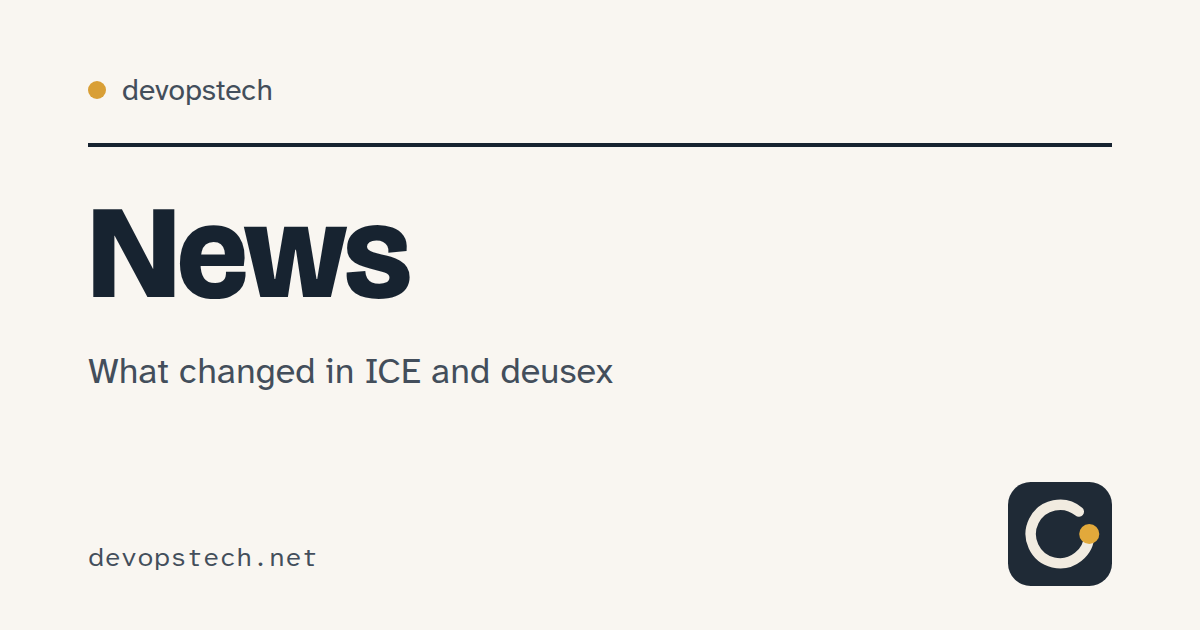
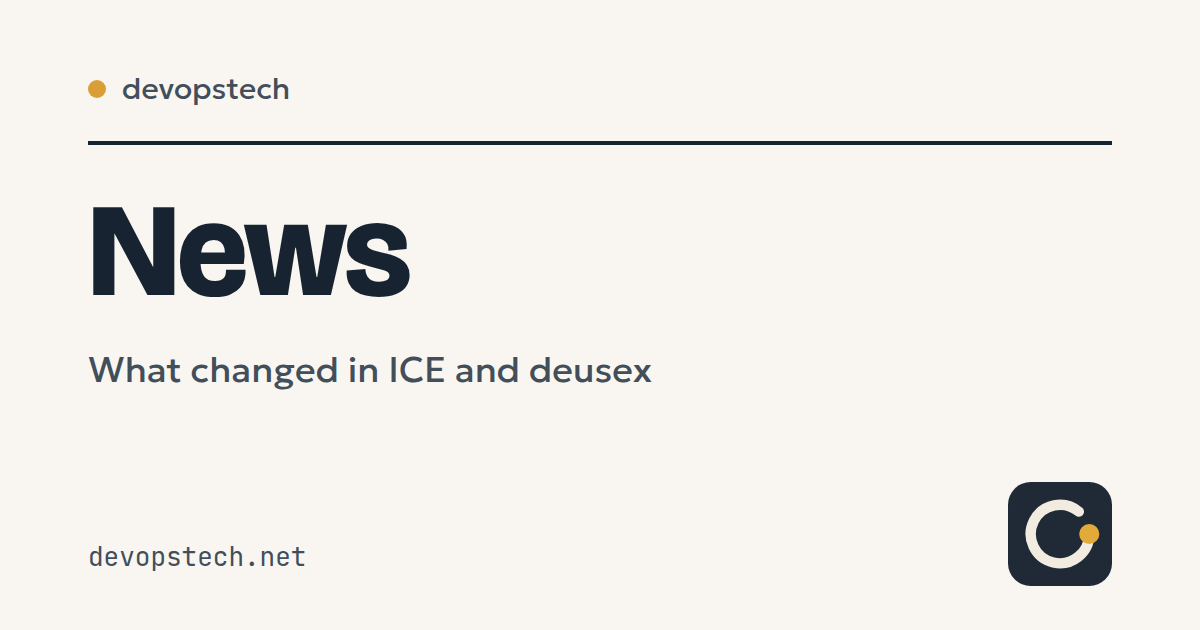
style(site): the shared devopstech/ICE style — Geologica, JetBrains Mono, 6/4 px radii, ICE mark on ICE cards
Agreed with the ICE logo work (ICE repo docs/DESIGN.md is the source): Geologica for
text and JetBrains Mono for code, both with Cyrillic like the bilingual console;
Bricolage Grotesque stays only for large English display headings; Atkinson leaves the
site. Controls get a 6px radius, cards and figures 4px (--dt-radius-control/-card).
Social cards use the same fonts, and ICE pages carry the ICE core-sample mark instead
of the devopstech ring.

Fixes found on the way:
- 768-959 px: the navbar was wider than the screen since the brand suffix and the News
  item (38 px on production, 71 px with the new fonts); the suffix hides in that range.
- VitePress menu labels (Appearance) were 12 px; the site's floor is 13 px.

diff --git a/docs/.vitepress/theme/custom.css b/docs/.vitepress/theme/custom.css
@@ -1,6 +1,9 @@
 /*
  * devopstech — "engineering notebook": warm paper, ink, a brass mark.
  * Rules: nothing smaller than 13px, no large red surfaces, left-aligned everything.
+ * Shared with the ICE console (ICE repo docs/DESIGN.md): Geologica for text, JetBrains Mono
+ * for code, the ICE ice ramp; Bricolage Grotesque only for large English display headings;
+ * brass belongs to devopstech and never to the product; radius 6px on controls, 4px on cards.
  */
 :root {
   --dt-paper: oklch(0.975 0.008 85);
@@ -17,9 +20,11 @@
   --dt-deusex: oklch(0.6 0.13 70);
   --dt-km: #326ce5;
 
-  --dt-font-display: 'Bricolage Grotesque', 'Atkinson Hyperlegible Next', ui-sans-serif, system-ui, sans-serif;
-  --vp-font-family-base: 'Atkinson Hyperlegible Next', ui-sans-serif, system-ui, -apple-system, 'Segoe UI', sans-serif;
-  --vp-font-family-mono: 'Atkinson Hyperlegible Mono', ui-monospace, 'SFMono-Regular', Menlo, monospace;
+  --dt-font-display: 'Bricolage Grotesque', 'Geologica', ui-sans-serif, system-ui, sans-serif;
+  --vp-font-family-base: 'Geologica', ui-sans-serif, system-ui, -apple-system, 'Segoe UI', sans-serif;
+  --vp-font-family-mono: 'JetBrains Mono', ui-monospace, 'SFMono-Regular', Menlo, monospace;
+  --dt-radius-control: 6px;
+  --dt-radius-card: 4px;
 
   --vp-c-bg: var(--dt-paper);
   --vp-c-bg-alt: var(--dt-paper-2);
@@ -148,6 +153,7 @@
   padding: 28px 28px 22px;
   background: var(--dt-paper-2);
   border: 1px solid var(--vp-c-divider);
+  border-radius: var(--dt-radius-card);
   max-width: 620px;
 }
 .vp-doc .dt-quote {
@@ -343,7 +349,7 @@
   width: 100%;
   height: auto;
   border: 1px solid var(--vp-c-border);
-  border-radius: 3px;
+  border-radius: var(--dt-radius-card);
 }
 .vp-doc .dt-shot figcaption {
   margin-top: 10px;
@@ -400,7 +406,7 @@
   font-weight: 600;
   line-height: 1.2;
   text-decoration: none !important;
-  border-radius: 3px;
+  border-radius: var(--dt-radius-control);
   background: var(--dt-ink);
   color: var(--dt-paper) !important;
   transition: background-color 0.15s ease;
@@ -423,4 +429,10 @@
   margin: 28px 0 8px;
   padding-top: 24px;
   border-top: 2px solid var(--vp-c-text-1);
+}
+
+/* VitePress sets these menu labels at 12px (`.VPMenu[data-v] .label`); the site's floor is 13px */
+.VPNav .VPNavBarExtra .VPMenu .label,
+.VPNavScreenAppearance .text {
+  font-size: 13px;
 }

diff --git a/docs/.vitepress/theme/components/PartnerCta.vue b/docs/.vitepress/theme/components/PartnerCta.vue
@@ -109,7 +109,7 @@ async function copy() {
   font-weight: 600;
   line-height: 1.2;
   text-decoration: none !important;
-  border-radius: 3px;
+  border-radius: var(--dt-radius-control);
   background: var(--dt-ink);
   color: var(--dt-paper) !important;
   transition: background-color 0.15s ease;
@@ -143,7 +143,7 @@ async function copy() {
   font-size: 14px;
   color: var(--vp-c-text-1);
   border: 1px solid var(--vp-c-border);
-  border-radius: 3px;
+  border-radius: var(--dt-radius-control);
   background: var(--vp-c-bg);
   cursor: pointer;
 }

diff --git a/docs/.vitepress/theme/components/HubHome.vue b/docs/.vitepress/theme/components/HubHome.vue
@@ -336,7 +336,7 @@ a:hover { text-decoration-thickness: 2px; }
   width: 100%;
   height: auto;
   border: 1px solid var(--vp-c-divider);
-  border-radius: 4px;
+  border-radius: var(--dt-radius-card);
 }
 .shot figcaption {
   margin-top: 12px;
@@ -360,6 +360,7 @@ a:hover { text-decoration-thickness: 2px; }
   padding: 28px 28px 24px;
   background: var(--dt-paper-2);
   border: 1px solid var(--vp-c-divider);
+  border-radius: var(--dt-radius-card);
 }
 
 

diff --git a/docs/.vitepress/theme/components/NavCta.vue b/docs/.vitepress/theme/components/NavCta.vue
@@ -20,7 +20,7 @@ defineProps<{ screen?: boolean }>();
   color: var(--vp-c-text-1);
   background: transparent;
   border: 1.5px solid var(--vp-c-text-1);
-  border-radius: 3px;
+  border-radius: var(--dt-radius-control);
   transition: color 0.15s ease, border-color 0.15s ease;
 }
 /* outlined, so the one solid button on a page is that page's own closing call to action */

diff --git a/docs/.vitepress/theme/components/NavBrandSuffix.vue b/docs/.vitepress/theme/components/NavBrandSuffix.vue
@@ -19,4 +19,10 @@
   border-left: 1px solid var(--vp-c-divider);
   white-space: nowrap;
 }
+/* 768–959 px shows the full nav in one row; without this the bar is wider than the screen */
+@media (min-width: 768px) and (max-width: 959px) {
+  .brand-suffix {
+    display: none;
+  }
+}
 </style>

diff --git a/docs/.vitepress/theme/components/PilotForm.vue b/docs/.vitepress/theme/components/PilotForm.vue
@@ -156,7 +156,7 @@ textarea {
   color: var(--vp-c-text-1);
   background: var(--vp-c-bg);
   border: 1px solid var(--vp-c-border);
-  border-radius: 3px;
+  border-radius: var(--dt-radius-control);
 }
 textarea {
   resize: vertical;
